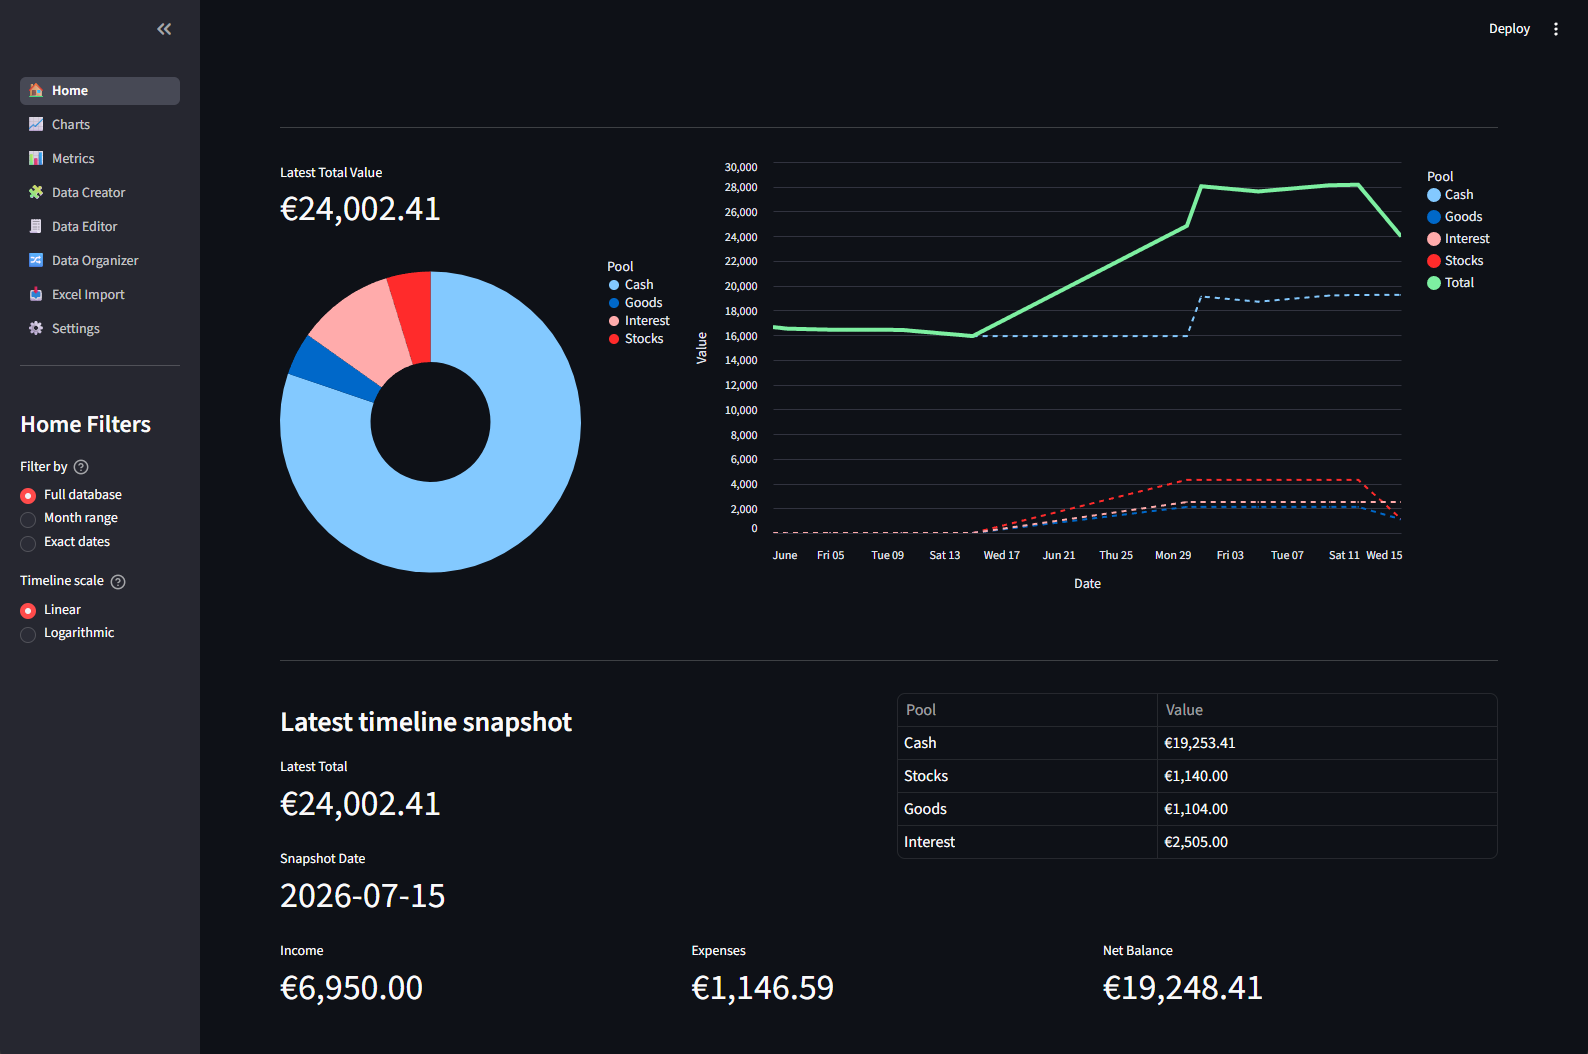
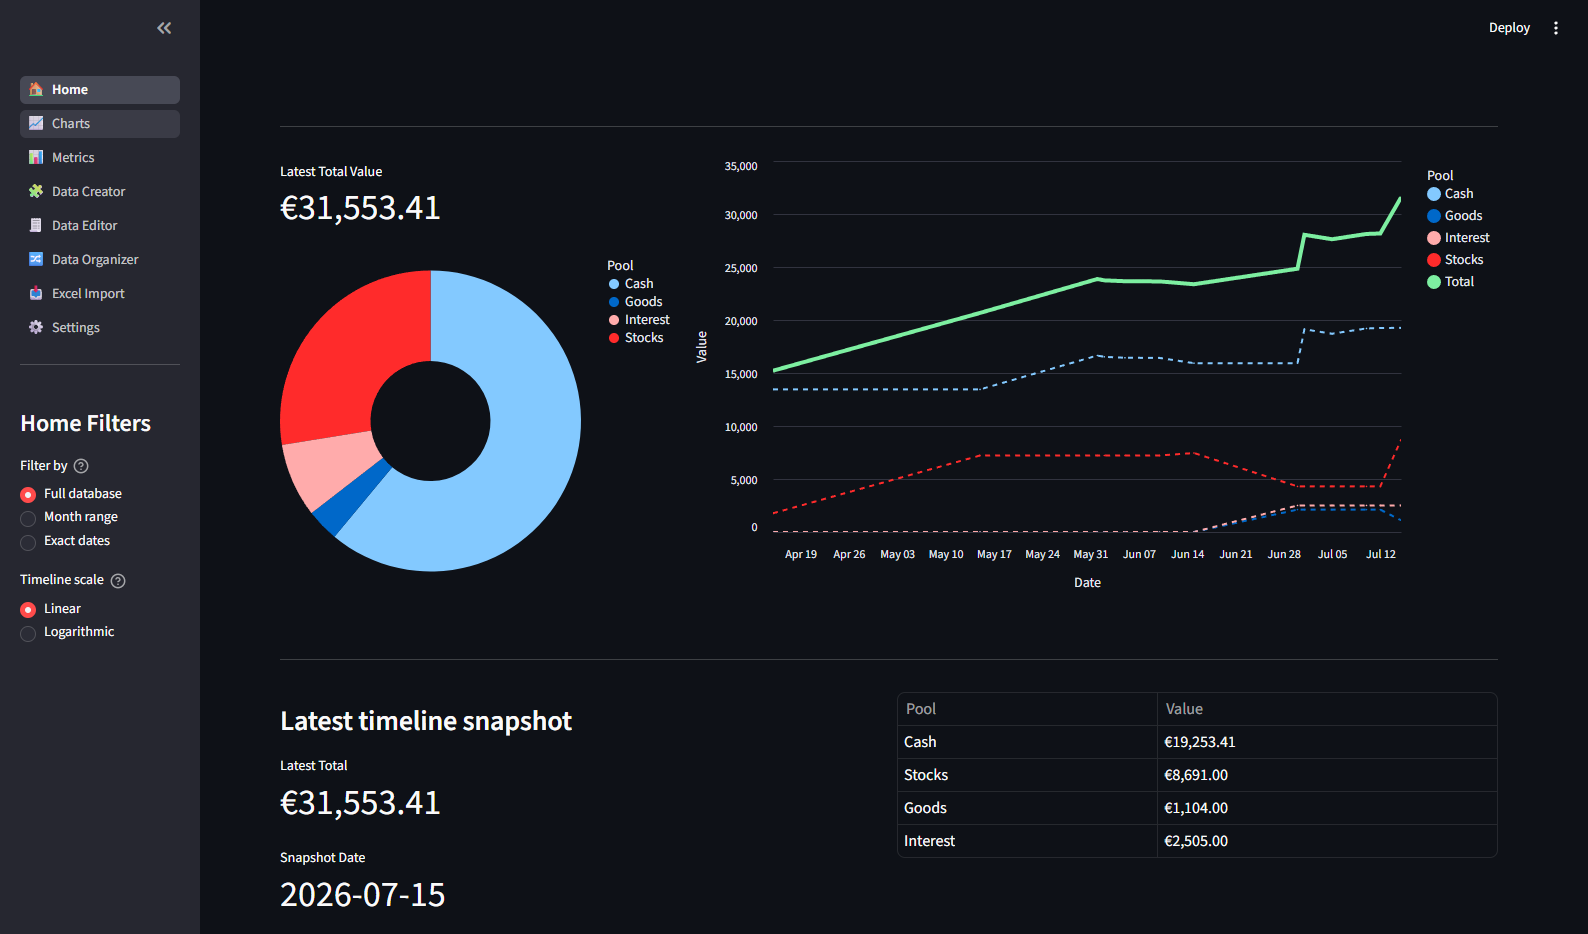
chore: enhanced the stocks sample data

diff --git a/create_sample_database.py b/create_sample_database.py
@@ -42,9 +42,33 @@ def seed_sample_data(conn: duckdb.DuckDBPyConnection) -> None:
 
     conn.execute("INSERT OR IGNORE INTO cash_transactions (transaction_id, row_nr, description, account_id, category_id, amount, transaction_date, balance_after, source_sheet, section_name) VALUES (12, 1, 'Brokerage deposit', 3, 5, 1200.00, '2026-07-10', 1200.00, 'Sample Import', 'Transfer')")
 
-    conn.execute("INSERT OR IGNORE INTO stock_positions (position_id, source_sheet, snapshot_date, row_nr, name, ticker, quantity, price_previous, price_current, delta_value, delta_percent, position_value, depot_value_running) VALUES (1, 'Sample Import', '2026-07-15', 1, 'ACME Corp', 'ACME', 20.0, 125.00, 132.00, 140.00, 0.056, 2640.00, 2640.00)")
-    conn.execute("INSERT OR IGNORE INTO stock_positions (position_id, source_sheet, snapshot_date, row_nr, name, ticker, quantity, price_previous, price_current, delta_value, delta_percent, position_value, depot_value_running) VALUES (2, 'Sample Import', '2026-07-15', 2, 'FutureTech', 'FTECH', 5.0, 350.00, 360.00, 50.00, 0.0286, 1800.00, 4440.00)")
-    conn.execute("INSERT OR IGNORE INTO stock_positions (position_id, source_sheet, snapshot_date, row_nr, name, ticker, quantity, price_previous, price_current, delta_value, delta_percent, position_value, depot_value_running) VALUES (3, 'Sample Import', '2026-07-15', 3, 'Green Energy', 'GREEN', 12.0, 80.00, 95.00, 180.00, 0.225, 1140.00, 5580.00)")
+    conn.execute("INSERT OR IGNORE INTO stock_positions (position_id, source_sheet, snapshot_date, row_nr, name, ticker, quantity, price_previous, price_current, delta_value, delta_percent, position_value, depot_value_running) VALUES (1, 'Sample Import', '2026-04-15', 1, 'ACME Corp', 'ACME', 20.0, 115.00, 122.00, 140.00, 0.0609, 2440.00, 2440.00)")
+    conn.execute("INSERT OR IGNORE INTO stock_positions (position_id, source_sheet, snapshot_date, row_nr, name, ticker, quantity, price_previous, price_current, delta_value, delta_percent, position_value, depot_value_running) VALUES (2, 'Sample Import', '2026-04-15', 2, 'FutureTech', 'FTECH', 5.0, 320.00, 330.00, 50.00, 0.0313, 1650.00, 4090.00)")
+    conn.execute("INSERT OR IGNORE INTO stock_positions (position_id, source_sheet, snapshot_date, row_nr, name, ticker, quantity, price_previous, price_current, delta_value, delta_percent, position_value, depot_value_running) VALUES (3, 'Sample Import', '2026-04-15', 3, 'Green Energy', 'GREEN', 12.0, 70.00, 79.00, 108.00, 0.1286, 948.00, 5038.00)")
+    conn.execute("INSERT OR IGNORE INTO stock_positions (position_id, source_sheet, snapshot_date, row_nr, name, ticker, quantity, price_previous, price_current, delta_value, delta_percent, position_value, depot_value_running) VALUES (4, 'Sample Import', '2026-04-15', 4, 'SolarWind', 'SOLR', 8.0, 55.00, 60.00, 40.00, 0.0909, 480.00, 5518.00)")
+    conn.execute("INSERT OR IGNORE INTO stock_positions (position_id, source_sheet, snapshot_date, row_nr, name, ticker, quantity, price_previous, price_current, delta_value, delta_percent, position_value, depot_value_running) VALUES (5, 'Sample Import', '2026-04-15', 5, 'MedHealth', 'MEDH', 10.0, 95.00, 100.00, 50.00, 0.0526, 1000.00, 6518.00)")
+    conn.execute("INSERT OR IGNORE INTO stock_positions (position_id, source_sheet, snapshot_date, row_nr, name, ticker, quantity, price_previous, price_current, delta_value, delta_percent, position_value, depot_value_running) VALUES (6, 'Sample Import', '2026-04-15', 6, 'FinBank', 'FBNK', 15.0, 18.00, 19.00, 15.00, 0.0556, 285.00, 6803.00)")
+
+    conn.execute("INSERT OR IGNORE INTO stock_positions (position_id, source_sheet, snapshot_date, row_nr, name, ticker, quantity, price_previous, price_current, delta_value, delta_percent, position_value, depot_value_running) VALUES (7, 'Sample Import', '2026-05-15', 1, 'ACME Corp', 'ACME', 20.0, 122.00, 128.00, 120.00, 0.0492, 2560.00, 2560.00)")
+    conn.execute("INSERT OR IGNORE INTO stock_positions (position_id, source_sheet, snapshot_date, row_nr, name, ticker, quantity, price_previous, price_current, delta_value, delta_percent, position_value, depot_value_running) VALUES (8, 'Sample Import', '2026-05-15', 2, 'FutureTech', 'FTECH', 5.0, 330.00, 345.00, 75.00, 0.0455, 1725.00, 4285.00)")
+    conn.execute("INSERT OR IGNORE INTO stock_positions (position_id, source_sheet, snapshot_date, row_nr, name, ticker, quantity, price_previous, price_current, delta_value, delta_percent, position_value, depot_value_running) VALUES (9, 'Sample Import', '2026-05-15', 3, 'Green Energy', 'GREEN', 12.0, 79.00, 87.00, 96.00, 0.1015, 1044.00, 5329.00)")
+    conn.execute("INSERT OR IGNORE INTO stock_positions (position_id, source_sheet, snapshot_date, row_nr, name, ticker, quantity, price_previous, price_current, delta_value, delta_percent, position_value, depot_value_running) VALUES (10, 'Sample Import', '2026-05-15', 4, 'SolarWind', 'SOLR', 8.0, 60.00, 66.00, 48.00, 0.0800, 528.00, 5857.00)")
+    conn.execute("INSERT OR IGNORE INTO stock_positions (position_id, source_sheet, snapshot_date, row_nr, name, ticker, quantity, price_previous, price_current, delta_value, delta_percent, position_value, depot_value_running) VALUES (11, 'Sample Import', '2026-05-15', 5, 'MedHealth', 'MEDH', 10.0, 100.00, 106.00, 60.00, 0.0600, 1060.00, 6917.00)")
+    conn.execute("INSERT OR IGNORE INTO stock_positions (position_id, source_sheet, snapshot_date, row_nr, name, ticker, quantity, price_previous, price_current, delta_value, delta_percent, position_value, depot_value_running) VALUES (12, 'Sample Import', '2026-05-15', 6, 'FinBank', 'FBNK', 15.0, 19.00, 20.00, 15.00, 0.0526, 300.00, 7217.00)")
+
+    conn.execute("INSERT OR IGNORE INTO stock_positions (position_id, source_sheet, snapshot_date, row_nr, name, ticker, quantity, price_previous, price_current, delta_value, delta_percent, position_value, depot_value_running) VALUES (13, 'Sample Import', '2026-06-15', 1, 'ACME Corp', 'ACME', 20.0, 128.00, 134.00, 120.00, 0.0469, 2680.00, 2680.00)")
+    conn.execute("INSERT OR IGNORE INTO stock_positions (position_id, source_sheet, snapshot_date, row_nr, name, ticker, quantity, price_previous, price_current, delta_value, delta_percent, position_value, depot_value_running) VALUES (14, 'Sample Import', '2026-06-15', 2, 'FutureTech', 'FTECH', 5.0, 345.00, 355.00, 50.00, 0.0289, 1775.00, 4455.00)")
+    conn.execute("INSERT OR IGNORE INTO stock_positions (position_id, source_sheet, snapshot_date, row_nr, name, ticker, quantity, price_previous, price_current, delta_value, delta_percent, position_value, depot_value_running) VALUES (15, 'Sample Import', '2026-06-15', 3, 'Green Energy', 'GREEN', 12.0, 87.00, 92.00, 60.00, 0.0575, 1104.00, 5559.00)")
+    conn.execute("INSERT OR IGNORE INTO stock_positions (position_id, source_sheet, snapshot_date, row_nr, name, ticker, quantity, price_previous, price_current, delta_value, delta_percent, position_value, depot_value_running) VALUES (16, 'Sample Import', '2026-06-15', 4, 'SolarWind', 'SOLR', 8.0, 66.00, 64.00, -16.00, -0.0364, 512.00, 6071.00)")
+    conn.execute("INSERT OR IGNORE INTO stock_positions (position_id, source_sheet, snapshot_date, row_nr, name, ticker, quantity, price_previous, price_current, delta_value, delta_percent, position_value, depot_value_running) VALUES (17, 'Sample Import', '2026-06-15', 5, 'MedHealth', 'MEDH', 10.0, 106.00, 108.00, 20.00, 0.0189, 1080.00, 7151.00)")
+    conn.execute("INSERT OR IGNORE INTO stock_positions (position_id, source_sheet, snapshot_date, row_nr, name, ticker, quantity, price_previous, price_current, delta_value, delta_percent, position_value, depot_value_running) VALUES (18, 'Sample Import', '2026-06-15', 6, 'FinBank', 'FBNK', 15.0, 20.00, 20.00, 0.00, 0.0000, 300.00, 7451.00)")
+
+    conn.execute("INSERT OR IGNORE INTO stock_positions (position_id, source_sheet, snapshot_date, row_nr, name, ticker, quantity, price_previous, price_current, delta_value, delta_percent, position_value, depot_value_running) VALUES (19, 'Sample Import', '2026-07-15', 1, 'ACME Corp', 'ACME', 20.0, 134.00, 132.00, -40.00, -0.0150, 2640.00, 2640.00)")
+    conn.execute("INSERT OR IGNORE INTO stock_positions (position_id, source_sheet, snapshot_date, row_nr, name, ticker, quantity, price_previous, price_current, delta_value, delta_percent, position_value, depot_value_running) VALUES (20, 'Sample Import', '2026-07-15', 2, 'FutureTech', 'FTECH', 5.0, 355.00, 360.00, 25.00, 0.0141, 1800.00, 4440.00)")
+    conn.execute("INSERT OR IGNORE INTO stock_positions (position_id, source_sheet, snapshot_date, row_nr, name, ticker, quantity, price_previous, price_current, delta_value, delta_percent, position_value, depot_value_running) VALUES (21, 'Sample Import', '2026-07-15', 3, 'Green Energy', 'GREEN', 12.0, 92.00, 95.00, 36.00, 0.0348, 1140.00, 5580.00)")
+    conn.execute("INSERT OR IGNORE INTO stock_positions (position_id, source_sheet, snapshot_date, row_nr, name, ticker, quantity, price_previous, price_current, delta_value, delta_percent, position_value, depot_value_running) VALUES (22, 'Sample Import', '2026-07-15', 4, 'SolarWind', 'SOLR', 8.0, 64.00, 67.00, 24.00, 0.0471, 536.00, 6116.00)")
+    conn.execute("INSERT OR IGNORE INTO stock_positions (position_id, source_sheet, snapshot_date, row_nr, name, ticker, quantity, price_previous, price_current, delta_value, delta_percent, position_value, depot_value_running) VALUES (23, 'Sample Import', '2026-07-15', 5, 'MedHealth', 'MEDH', 10.0, 108.00, 112.00, 40.00, 0.0377, 1120.00, 7236.00)")
+    conn.execute("INSERT OR IGNORE INTO stock_positions (position_id, source_sheet, snapshot_date, row_nr, name, ticker, quantity, price_previous, price_current, delta_value, delta_percent, position_value, depot_value_running) VALUES (24, 'Sample Import', '2026-07-15', 6, 'FinBank', 'FBNK', 15.0, 20.00, 21.00, 15.00, 0.0500, 315.00, 7551.00)")
 
     conn.execute("INSERT OR IGNORE INTO goods_valuations (valuation_id, source_sheet, valuation_date, row_nr, item_name, purchase_value, depreciation_input, value_previous, value_change, current_value) VALUES (1, 'Sample Import', '2026-07-15', 1, 'Laptop', 1500.00, 0.10, 1350.00, -100.00, 1250.00)")
     conn.execute("INSERT OR IGNORE INTO goods_valuations (valuation_id, source_sheet, valuation_date, row_nr, item_name, purchase_value, depreciation_input, value_previous, value_change, current_value) VALUES (2, 'Sample Import', '2026-07-15', 2, 'Bicycle', 800.00, 0.05, 760.00, -20.00, 740.00)")

diff --git a/README.md b/README.md
@@ -2,7 +2,7 @@
 
 Finance mosaix is a DuckDB-based personal finance application for importing Excel transaction sheets, tracking cash flow, monitoring assets, and visualizing results with a Streamlit dashboard.
 
-[img.png](docs/img/Dashboard.png)
+![img.png](docs/img/Dashboard.png)
 
 > Disclaimer: this project was mainly realized with CoPilot assistance, using the Raptor mini model for content generation and implementation guidance.
 